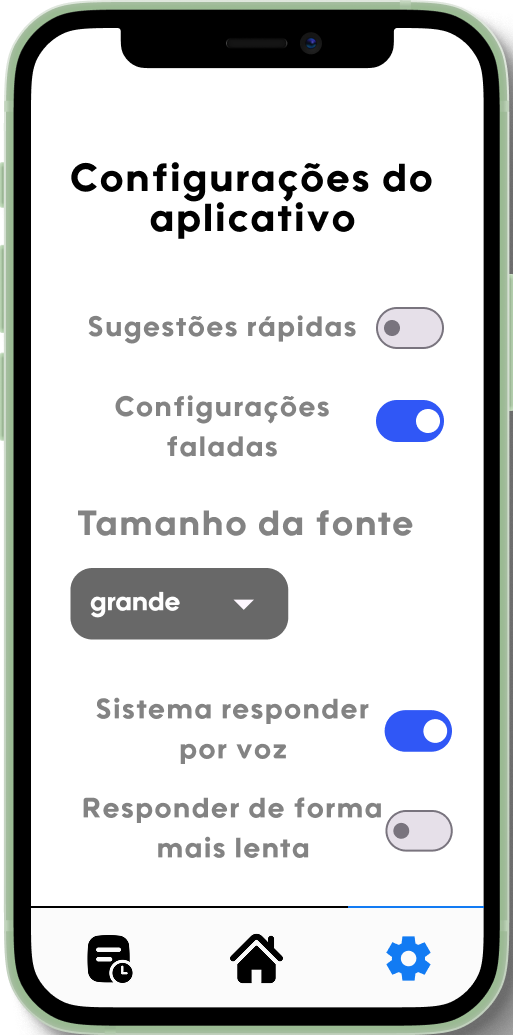
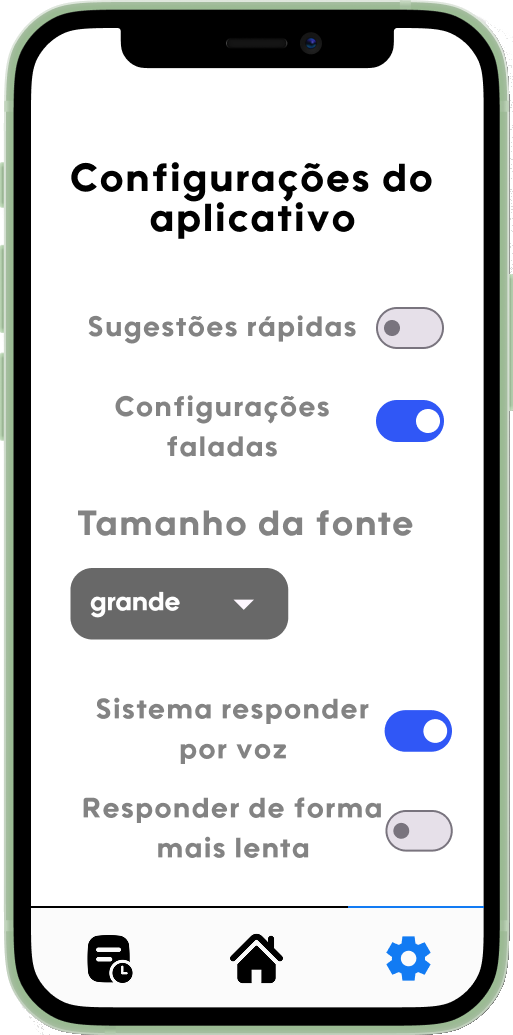
fix: fixed responsivity for parts of the website

Changed region(s): [[0.8421, 0.371, 1.0, 1.0], [0.9669, 0.0309, 1.0, 0.2783], [0.0624, 0.9894, 0.1559, 1.0]]

diff --git a/css/style.css b/css/style.css
@@ -223,9 +223,8 @@
     height: auto;
     margin: 10vw 5vw;
     margin-top: 4vh;
-    border-radius: 55px;
-    box-shadow: 16px 16px 12px rgba(0, 0, 0, 0.35);
-    /* directional and natural */
+    /* border-radius: 55px; */
+    /* box-shadow: 16px 16px 12px rgba(0, 0, 0, 0.35); */
 }
 
 .cadastro p {
@@ -256,8 +255,8 @@
     height: auto;
     margin: 10vw 5vw;
     margin-top: 4vh;
-    border-radius: 55px;
-    box-shadow: 16px 16px 12px rgba(0, 0, 0, 0.35);
+    /* border-radius: 55px; */
+    /* box-shadow: 16px 16px 12px rgba(0, 0, 0, 0.35); */
 }
 
 .itens-config p{
@@ -352,7 +351,7 @@
 }
 
 .logo-subcontent img{
-    height: 40vh;
+    height: 30vh;
     width: auto;
 }
 
@@ -456,6 +455,10 @@
         min-height: auto;
     }
 
+    .section-title{
+        font-size: 40px;
+    }
+
     .banner .left-img {
         position: static;
         transform: none;
@@ -493,6 +496,7 @@
 
     .info-card {
         text-align: center;
+        align-self: center !important; 
     }
 
     .info-card > p, .info-container, .app-section{
@@ -503,11 +507,45 @@
         flex-direction: column-reverse !important;
     }
 
+    .app-section img{
+        margin: 0 5vw !important;
+        width: 100%;
+        height: auto;
+    }
+
+    .imagem-seta{
+        display: none;
+    }
+
+    .cadastro-concluido{
+        display: none !important;
+    }
+
     .info-container, .app-section{
         display: flex;
         align-items: center;
         justify-content: center;
         flex-direction: column;
         text-align: center;
+        margin: 5vw !important;
     }
+
+    .info-container img{
+        width: 80%;
+        height: auto;
+    }
+
+    /* configuração */
+
+    .itens-config{
+        flex-direction: column;
+        align-items: center;
+    }
+
+    /* passo a passo */
+
+    .passo-passo img{
+        justify-self: center !important;
+    }
+
 }

diff --git a/index.html b/index.html
@@ -113,7 +113,6 @@
                             O aplicativo funciona como um assistente pessoal, onde o usuário poderá praticar como usar
                             os aplicativos do dia a dia
                         </p>
-
                         <p class="informational-text">
                             Na tela de apresentação do app é deixado claro o que o software se propõe a fazer
                         </p>
@@ -129,7 +128,7 @@
                 <div class="imagem-seta"><img src="img/seta_cadastro.png"></div>
                 <div class="telas-cadastro">
                     <img src="img/tela_cadastro.png" alt="Tela de cadastro">
-                    <img src="img/tela_cadastro_concluido.png" alt="tela de cadastro concluído">
+                    <img src="img/tela_cadastro_concluido.png" alt="tela de cadastro concluído" class="cadastro-concluido">
                 </div>
                 <p class="informational-text">O cadastro do usuário foi projetado para ser simples, com o intuito de
                     facilitar a compreensão do usuário</p>
